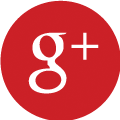
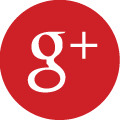
July 15 Updates

diff --git a/css/style.css b/css/style.css
@@ -16,18 +16,18 @@ body {
   width: 1000px;
 }
 
-.header {
+#header {
   margin-bottom: 20px;
   padding: 30px 0;
   text-shadow: 0 1px 0 white;
 }
 
- .header .creds {
+ #header .creds {
    color: #BBBBBB;
    margin-left: 5px;
  }
 
- .header img {
+ #header img {
    display: inline;
    height: 96px;
    margin-right: 10px;
@@ -35,13 +35,29 @@ body {
    width: 96px;
  }
 
- .header h1 {
+ #header h1 {
    display: inline;
    font-size: 14px;
    font-weight: bold;
    letter-spacing: 0px;
    text-transform: uppercase;
  }
+
+ #networks {
+  float: right;
+  padding-top: 10px;
+ }
+
+   #networks .icon {
+     -webkit-transition: all 1s ease;
+     height: 32px;
+     margin-right: 10px;
+     transition: all 1s ease;
+     vertical-align: middle;
+     width: 32px;
+   }
+
+   #networks .icon:hover {  -webkit-transform: rotate(360deg) }
 
 .viewport {
   border: 1px solid #ddd;
@@ -81,40 +97,17 @@ body {
 
  .light-background em {  color: #707070 }
 
-.footer {
-  background: #444;
+#footer {
   clear: both;
-  color: white;
-  height: 150px;
+  height: 90px;
   margin-top: -150px;
   overflow: auto;
+  padding: 30px 0;
   position: relative;
-  width: 100%;
   width: 100%;
 }
 
- .footer .networks {  float: right }
-
- .footer .content {
-   margin: 0 auto;
-   padding: 30px 0;
-   text-align: left;
-   width: 1000px;
- }
-
- .footer .icon {
-   -webkit-transition: all 1s ease;
-   height: 32px;
-   margin-right: 10px;
-   transition: all 1s ease;
-   vertical-align: middle;
-   width: 32px;
- }
-
- .footer .icon:hover {  -webkit-transform: rotate(360deg) }
-
- .footer h2 {
-   color: #f4f4f4;
+ #footer h2 {
    font-size: 16px;
    font-weight: normal;
  }

diff --git a/_layouts/default.html b/_layouts/default.html
@@ -9,8 +9,15 @@
 </head>
 <body>
 <div id="wrap">
+  <div id="networks">
+        <img src="/images/twitter_icon_g.png" title="" class="icon" />
+        <img src="/images/github_icon_g.png" title="" class="icon" />
+        <img src="/images/linkedin_icon_g.png" title="" class="icon" />
+        <img src="/images/stacko_icon_g.png" title="" class="icon" />
+        <img src="/images/google_icon_g.png" title="" class="icon" />
+  </div>
   <div id="container">
-    <div class="header">
+    <div id="header">
       <img src="/images/me_picture.png" title="" />
       <h1>Bryce Kalow</h1>
       <span class="creds">web developer & student</span>
@@ -19,17 +26,7 @@
 
   </div>
 </div>
-  <div class="footer">
-    <div class="content">
-      <div class="networks">
-        <h2>Find me on:</h2>
-        <img src="/images/twitter_icon.png" title="" class="icon" />
-        <img src="/images/github_icon.png" title="" class="icon" />
-        <img src="/images/linkedin_icon.png" title="" class="icon" />
-        <img src="/images/stacko_icon.png" title="" class="icon" />
-        <img src="/images/google_icon.png" title="" class="icon" />
-      </div>
-    </div>
+  <div id="footer">
   </div>
 <script type="text/javascript" src="http://ajax.googleapis.com/ajax/libs/jquery/1.7.2/jquery.min.js"></script>
 <script type="text/javascript">
